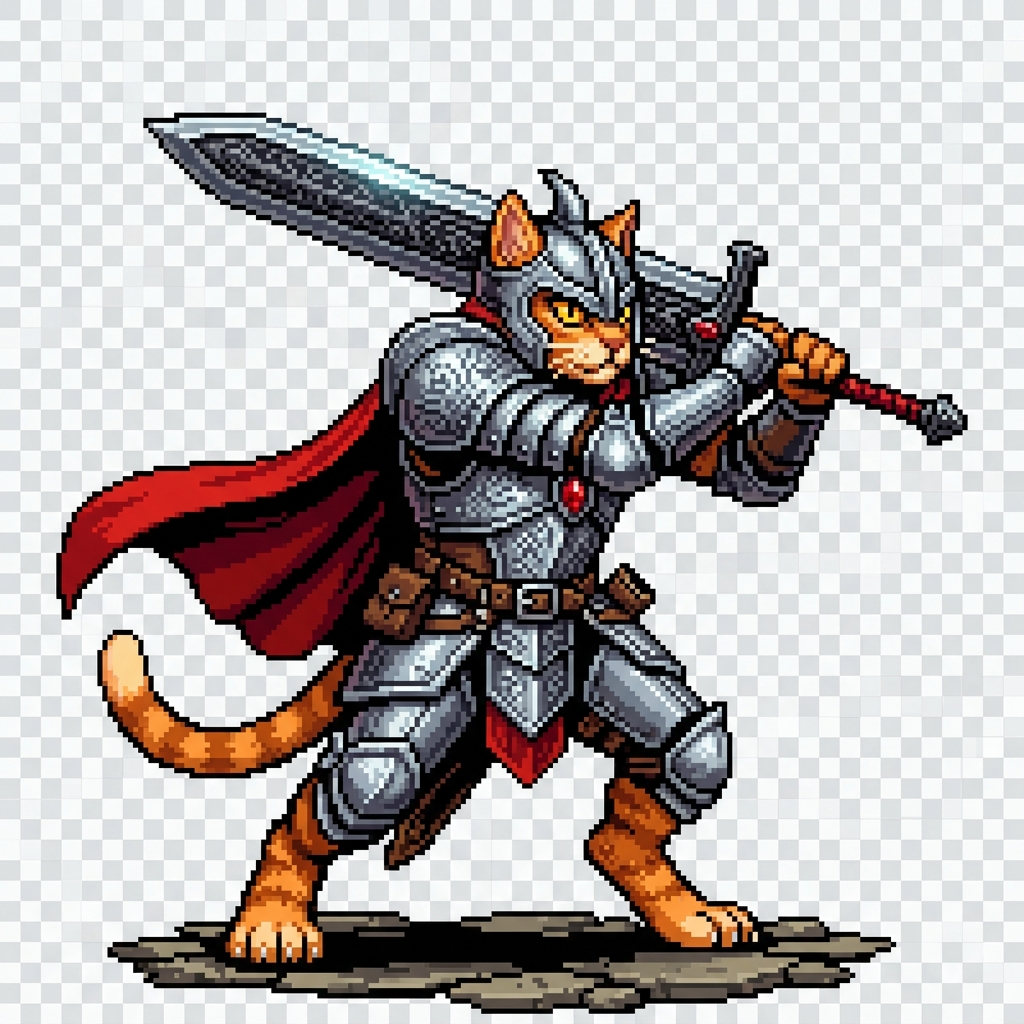
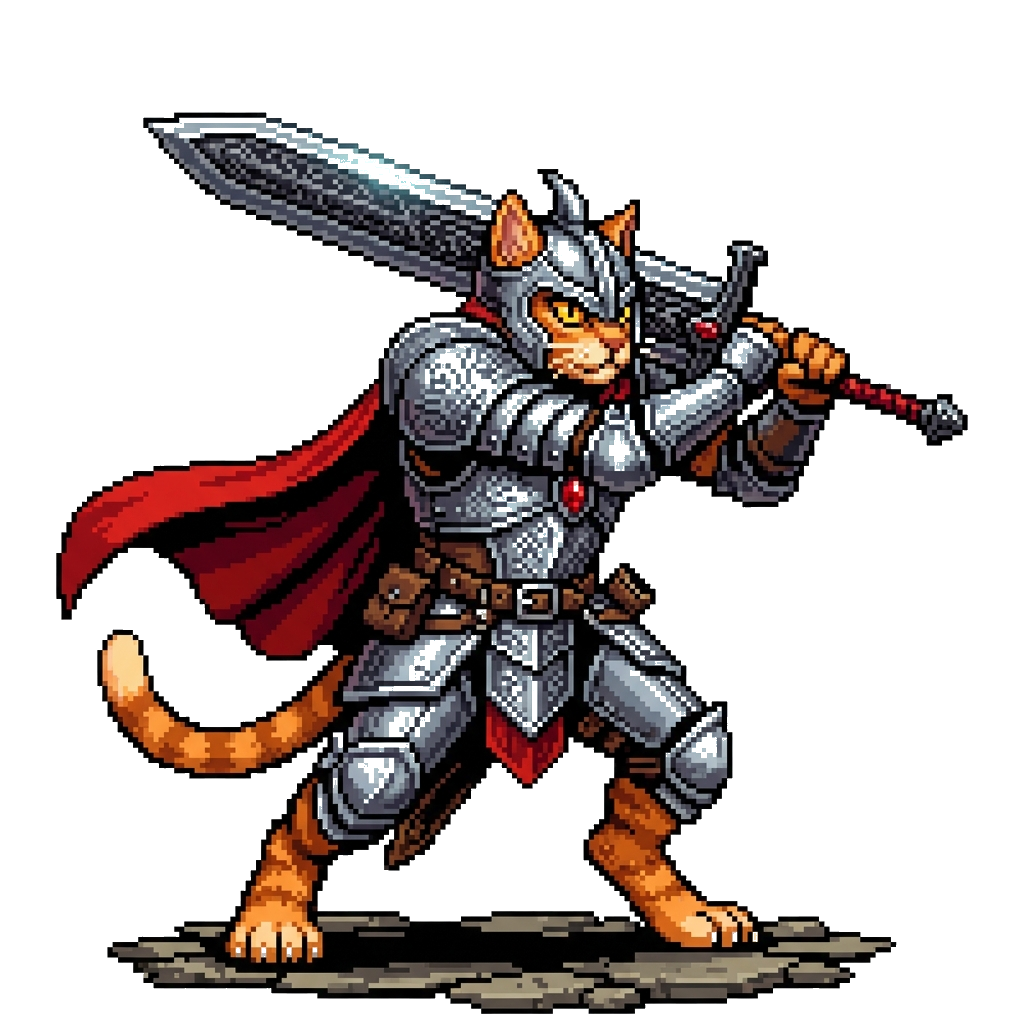
fix: 主角去背透明處理，戰鬥舞台英雄資訊對稱渲染，狀態欄加入HP/MP數值，承襲練等高生命屬性，戰鬥日誌移至頂部防止遮擋操作

diff --git a/life-os-mvp/link.html b/life-os-mvp/link.html
@@ -1919,9 +1919,10 @@
     }
 
     .ff-sprite.dead {
-      opacity: 0.35;
-      transform: rotate(-90deg) translateY(5px);
-      filter: grayscale(1);
+      opacity: 0.25;
+      filter: grayscale(1) brightness(0.5) !important;
+      transform: scaleY(0.65) translateY(12px);
+      transition: all 0.4s ease;
     }
 
     /* 戰法防護膜/嘲諷標記 */
@@ -2046,9 +2047,9 @@
 
     .ff-status-row {
       display: grid;
-      grid-template-columns: 24% 28% 23% 25%;
+      grid-template-columns: 20% 28% 26% 26%;
       align-items: center;
-      font-size: 0.68rem;
+      font-size: 0.64rem;
       font-weight: bold;
     }
 
@@ -2115,21 +2116,21 @@
       padding-right: 4px;
     }
 
-    /* 戰鬥日誌 (漂浮於面板上方) */
+    /* 戰鬥日誌 (漂浮於畫面最頂端，絕對不遮擋任何操作按鈕與戰場角色) */
     .ff-battle-log {
       position: absolute;
-      bottom: 125px;
+      top: 10px;
       left: 10px;
       right: 10px;
-      background: rgba(0, 0, 0, 0.8);
-      border: 1px solid rgba(0, 85, 255, 0.5);
+      background: rgba(0, 0, 0, 0.85);
+      border: 1px solid rgba(0, 85, 255, 0.6);
       border-radius: 6px;
       padding: 6px 12px;
       font-size: 0.72rem;
       font-family: monospace;
       color: #4ef072;
       text-shadow: 0 0 4px rgba(78,240,114,0.3);
-      text-align: left;
+      text-align: center;
       z-index: 12;
       box-shadow: 0 4px 10px rgba(0,0,0,0.5);
       pointer-events: none;
@@ -3360,7 +3361,7 @@
       });
 
       // 初始化隊友與怪物
-      teamRaidEngine.initParty(getLevelInfo(userXP).level, gearStats);
+      teamRaidEngine.initParty(getLevelInfo(userXP).level, gearStats, userAttrs);
       teamRaidEngine.startBattle(stageNum);
       
       selectedMonsterIndex = 0; // 預設集火第一個怪
@@ -3502,7 +3503,15 @@
 
         const isActive = teamRaidEngine.isPaused && h.atb >= 100;
         
+        hDiv.style.display = 'flex';
+        hDiv.style.alignItems = 'center';
+        hDiv.style.gap = '8px';
+        hDiv.style.justifyContent = 'flex-end';
         hDiv.innerHTML = `
+          <div style="font-family:monospace; text-align:right; font-size:0.6rem; color:#fff; white-space:nowrap; text-shadow: 0 1px 3px rgba(0,0,0,0.8);">
+            <div style="font-weight:bold; color:#fff;">${h.name}</div>
+            <div>HP: ${Math.floor(h.hp)}/${h.maxHp}</div>
+          </div>
           <div class="ff-sprite ${h.alive ? '' : 'dead'} ${isActive ? 'action-active' : ''}" id="ff-hero-sprite-${originalIdx}">
             <img src="${h.img}" style="width: 48px; height: 48px; object-fit: contain; image-rendering: pixelated; filter: drop-shadow(0 4px 8px rgba(0,0,0,0.5));" alt="${h.name}" />
             ${buffBadge}
@@ -3526,25 +3535,28 @@
         row.innerHTML = `
           <div class="ff-status-name" style="color: ${h.alive ? '#fff' : '#ff4d4d'};">${h.emoji} ${h.name}</div>
           
-          <div style="display:flex; align-items:center;">
-            <span style="font-size:0.55rem; color:#888;">HP</span>
+          <div style="display:flex; align-items:center; gap: 4px;">
+            <span style="font-size:0.55rem; color:#888; width: 14px;">HP</span>
             <div class="ff-bar-outer" style="flex:1;">
               <div class="ff-bar-inner bar-hp" style="width: ${hpPct}%;"></div>
             </div>
+            <span style="font-size:0.52rem; font-family:monospace; color:#ccc; width: 50px; text-align:right;">${Math.floor(h.hp)}/${h.maxHp}</span>
           </div>
 
-          <div style="display:flex; align-items:center;">
-            <span style="font-size:0.55rem; color:#888;">MP</span>
+          <div style="display:flex; align-items:center; gap: 4px;">
+            <span style="font-size:0.55rem; color:#888; width: 14px;">MP</span>
             <div class="ff-bar-outer" style="flex:1;">
               <div class="ff-bar-inner bar-mp" style="width: ${mpPct}%;"></div>
             </div>
+            <span style="font-size:0.52rem; font-family:monospace; color:#ccc; width: 50px; text-align:right;">${Math.floor(h.mp)}/${h.maxMp}</span>
           </div>
 
-          <div style="display:flex; align-items:center;">
-            <span style="font-size:0.55rem; color:#888;">ATB</span>
+          <div style="display:flex; align-items:center; gap: 4px;">
+            <span style="font-size:0.55rem; color:#888; width: 14px;">ATB</span>
             <div class="ff-bar-outer" style="flex:1;">
               <div class="ff-bar-inner bar-atb" style="width: ${atbPct}%;"></div>
             </div>
+            <span style="font-size:0.52rem; font-family:monospace; color:#ffe066; width: 32px; text-align:right;">${Math.floor(atbPct)}%</span>
           </div>
         `;
         statusCol.appendChild(row);

diff --git a/link.html b/link.html
@@ -1919,9 +1919,10 @@
     }
 
     .ff-sprite.dead {
-      opacity: 0.35;
-      transform: rotate(-90deg) translateY(5px);
-      filter: grayscale(1);
+      opacity: 0.25;
+      filter: grayscale(1) brightness(0.5) !important;
+      transform: scaleY(0.65) translateY(12px);
+      transition: all 0.4s ease;
     }
 
     /* 戰法防護膜/嘲諷標記 */
@@ -2046,9 +2047,9 @@
 
     .ff-status-row {
       display: grid;
-      grid-template-columns: 24% 28% 23% 25%;
+      grid-template-columns: 20% 28% 26% 26%;
       align-items: center;
-      font-size: 0.68rem;
+      font-size: 0.64rem;
       font-weight: bold;
     }
 
@@ -2115,21 +2116,21 @@
       padding-right: 4px;
     }
 
-    /* 戰鬥日誌 (漂浮於面板上方) */
+    /* 戰鬥日誌 (漂浮於畫面最頂端，絕對不遮擋任何操作按鈕與戰場角色) */
     .ff-battle-log {
       position: absolute;
-      bottom: 125px;
+      top: 10px;
       left: 10px;
       right: 10px;
-      background: rgba(0, 0, 0, 0.8);
-      border: 1px solid rgba(0, 85, 255, 0.5);
+      background: rgba(0, 0, 0, 0.85);
+      border: 1px solid rgba(0, 85, 255, 0.6);
       border-radius: 6px;
       padding: 6px 12px;
       font-size: 0.72rem;
       font-family: monospace;
       color: #4ef072;
       text-shadow: 0 0 4px rgba(78,240,114,0.3);
-      text-align: left;
+      text-align: center;
       z-index: 12;
       box-shadow: 0 4px 10px rgba(0,0,0,0.5);
       pointer-events: none;
@@ -3360,7 +3361,7 @@
       });
 
       // 初始化隊友與怪物
-      teamRaidEngine.initParty(getLevelInfo(userXP).level, gearStats);
+      teamRaidEngine.initParty(getLevelInfo(userXP).level, gearStats, userAttrs);
       teamRaidEngine.startBattle(stageNum);
       
       selectedMonsterIndex = 0; // 預設集火第一個怪
@@ -3502,7 +3503,15 @@
 
         const isActive = teamRaidEngine.isPaused && h.atb >= 100;
         
+        hDiv.style.display = 'flex';
+        hDiv.style.alignItems = 'center';
+        hDiv.style.gap = '8px';
+        hDiv.style.justifyContent = 'flex-end';
         hDiv.innerHTML = `
+          <div style="font-family:monospace; text-align:right; font-size:0.6rem; color:#fff; white-space:nowrap; text-shadow: 0 1px 3px rgba(0,0,0,0.8);">
+            <div style="font-weight:bold; color:#fff;">${h.name}</div>
+            <div>HP: ${Math.floor(h.hp)}/${h.maxHp}</div>
+          </div>
           <div class="ff-sprite ${h.alive ? '' : 'dead'} ${isActive ? 'action-active' : ''}" id="ff-hero-sprite-${originalIdx}">
             <img src="${h.img}" style="width: 48px; height: 48px; object-fit: contain; image-rendering: pixelated; filter: drop-shadow(0 4px 8px rgba(0,0,0,0.5));" alt="${h.name}" />
             ${buffBadge}
@@ -3526,25 +3535,28 @@
         row.innerHTML = `
           <div class="ff-status-name" style="color: ${h.alive ? '#fff' : '#ff4d4d'};">${h.emoji} ${h.name}</div>
           
-          <div style="display:flex; align-items:center;">
-            <span style="font-size:0.55rem; color:#888;">HP</span>
+          <div style="display:flex; align-items:center; gap: 4px;">
+            <span style="font-size:0.55rem; color:#888; width: 14px;">HP</span>
             <div class="ff-bar-outer" style="flex:1;">
               <div class="ff-bar-inner bar-hp" style="width: ${hpPct}%;"></div>
             </div>
+            <span style="font-size:0.52rem; font-family:monospace; color:#ccc; width: 50px; text-align:right;">${Math.floor(h.hp)}/${h.maxHp}</span>
           </div>
 
-          <div style="display:flex; align-items:center;">
-            <span style="font-size:0.55rem; color:#888;">MP</span>
+          <div style="display:flex; align-items:center; gap: 4px;">
+            <span style="font-size:0.55rem; color:#888; width: 14px;">MP</span>
             <div class="ff-bar-outer" style="flex:1;">
               <div class="ff-bar-inner bar-mp" style="width: ${mpPct}%;"></div>
             </div>
+            <span style="font-size:0.52rem; font-family:monospace; color:#ccc; width: 50px; text-align:right;">${Math.floor(h.mp)}/${h.maxMp}</span>
           </div>
 
-          <div style="display:flex; align-items:center;">
-            <span style="font-size:0.55rem; color:#888;">ATB</span>
+          <div style="display:flex; align-items:center; gap: 4px;">
+            <span style="font-size:0.55rem; color:#888; width: 14px;">ATB</span>
             <div class="ff-bar-outer" style="flex:1;">
               <div class="ff-bar-inner bar-atb" style="width: ${atbPct}%;"></div>
             </div>
+            <span style="font-size:0.52rem; font-family:monospace; color:#ffe066; width: 32px; text-align:right;">${Math.floor(atbPct)}%</span>
           </div>
         `;
         statusCol.appendChild(row);

diff --git a/assets/rpg-engine.js b/assets/rpg-engine.js
@@ -81,34 +81,42 @@ class rpgBattleEngine {
     this.onDefeat = options.onDefeat || (() => {});
   }
 
-  // 初始化小隊與等級連動
-  initParty(userLevel, gearStats = {}) {
+  // 初始化小隊與等級連動 (100% 承襲修煉等級、四維屬性與神裝加成，展現與文字大冒險完全對齊的強悍屬性)
+  initParty(userLevel, gearStats = {}, userAttrs = { int: 10, vit: 10, foc: 10, agi: 10 }) {
     this.heroes = [];
     
-    // 1. 🔮 賢者 ➔【白熊】 (Sage) - 核心，始終解鎖
-    const bearHp = 120 + (gearStats.bonusMaxHp || 0);
-    const bearInt = 20 + (gearStats.bonusInt || 0);
-    const bearAgi = 25 + (gearStats.bonusAgi || 0);
+    // 確保 userAttrs 具有基礎默認值，避免未定義錯誤
+    const attrs = {
+      int: userAttrs.int || 10,
+      vit: userAttrs.vit || 10,
+      foc: userAttrs.foc || 10,
+      agi: userAttrs.agi || 10
+    };
+    
+    // 1. 🔮 賢者 ➔【白熊】 (Sage) - 智慧 (INT) 連動
+    const bearHp = 60 + userLevel * 3 + (attrs.int + (gearStats.bonusInt || 0)) * 8 + (gearStats.bonusMaxHp || 0);
+    const bearInt = 20 + userLevel * 0.5 + (attrs.int + (gearStats.bonusInt || 0)) * 1.5;
+    const bearAgi = 25 + userLevel * 0.2 + (attrs.agi + (gearStats.bonusAgi || 0)) * 0.5;
     this.heroes.push(new rpgCharacter("白熊", "bear", "🐻❄", "int", bearHp, 100, bearAgi, bearInt, "assets/hero_bear_sage.png"));
 
-    // 2. 🪓 戰士 ➔【除錯小貓】 (Warrior) - 核心，始終解鎖 (把怪物當 Bug 除錯的勇猛前排)
-    const catHp = 160 + (gearStats.bonusMaxHp || 0); // 戰士血量高
-    const catVit = 18 + (gearStats.bonusVit || 0);
-    const catAgi = 22 + (gearStats.bonusAgi || 0); // 前排中速
+    // 2. 🪓 戰士 ➔【除錯小貓】 (Warrior) - 韌性 (VIT) 連動 (血量最高，前排坦怪)
+    const catHp = 60 + userLevel * 3 + (attrs.vit + (gearStats.bonusVit || 0)) * 10 + (gearStats.bonusMaxHp || 0);
+    const catVit = 18 + userLevel * 0.4 + (attrs.vit + (gearStats.bonusVit || 0)) * 1.8;
+    const catAgi = 22 + userLevel * 0.2 + (attrs.agi + (gearStats.bonusAgi || 0)) * 0.4;
     this.heroes.push(new rpgCharacter("除錯小貓", "cat", "🐱", "vit", catHp, 60, catAgi, catVit, "assets/hero_cat_warrior.png"));
 
-    // 3. 🤍 白魔導士 ➔【降噪小兔】 (White Mage) - LV.5 解鎖 (心靈降噪治療擔當)
+    // 3. 🤍 白魔導士 ➔【降噪小兔】 (White Mage) - 專注 (FOC) 連動 (LV.5 解鎖)
     if (userLevel >= 5) {
-      const rabbitHp = 100 + (gearStats.bonusMaxHp || 0);
-      const rabbitFoc = 15 + (gearStats.bonusFoc || 0);
-      const rabbitAgi = 28 + (gearStats.bonusAgi || 0); // 白魔導士高速補血
+      const rabbitHp = 60 + userLevel * 3 + (attrs.foc + (gearStats.bonusFoc || 0)) * 8 + (gearStats.bonusMaxHp || 0);
+      const rabbitFoc = 15 + userLevel * 0.3 + (attrs.foc + (gearStats.bonusFoc || 0)) * 1.6;
+      const rabbitAgi = 28 + userLevel * 0.25 + (attrs.agi + (gearStats.bonusAgi || 0)) * 0.6;
       this.heroes.push(new rpgCharacter("降噪小兔", "rabbit", "🐰", "foc", rabbitHp, 120, rabbitAgi, rabbitFoc, "assets/hero_rabbit_mage.png"));
     }
 
-    // 4. 🗡 忍者 ➔【理智小猴】 (Ninja) - LV.15 解鎖 (超敏捷執行力爆發)
+    // 4. 🗡 忍者 ➔【理智小猴】 (Ninja) - 敏捷 (AGI) 連動 (LV.15 解鎖)
     if (userLevel >= 15) {
-      const monkeyHp = 90 + (gearStats.bonusMaxHp || 0);
-      const monkeyAgi = 40 + (gearStats.bonusAgi || 0); // 忍者超高速
+      const monkeyHp = 60 + userLevel * 3 + (attrs.agi + (gearStats.bonusAgi || 0)) * 8 + (gearStats.bonusMaxHp || 0);
+      const monkeyAgi = 40 + userLevel * 0.6 + (attrs.agi + (gearStats.bonusAgi || 0)) * 2.0;
       this.heroes.push(new rpgCharacter("理智小猴", "monkey", "🐵", "agi", monkeyHp, 80, monkeyAgi, monkeyAgi, "assets/hero_monkey_ninja.png"));
     }
   }
